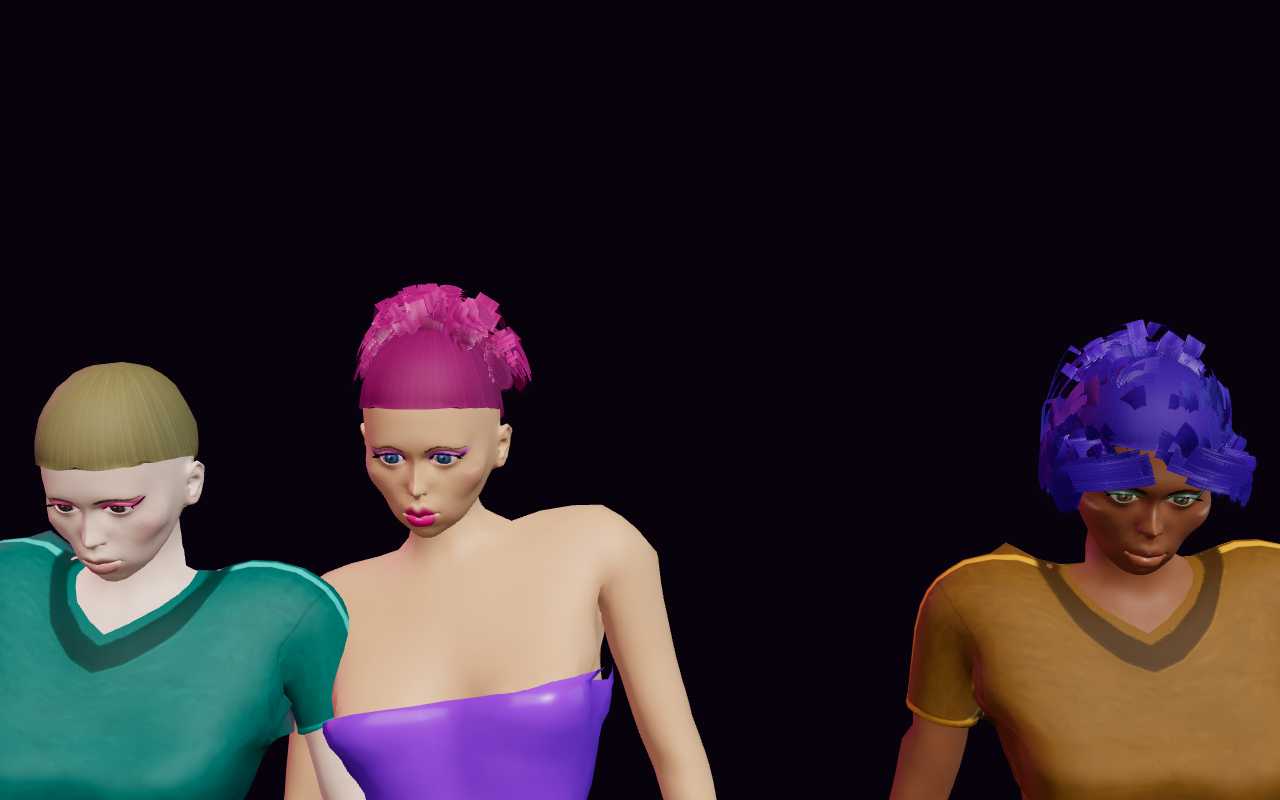
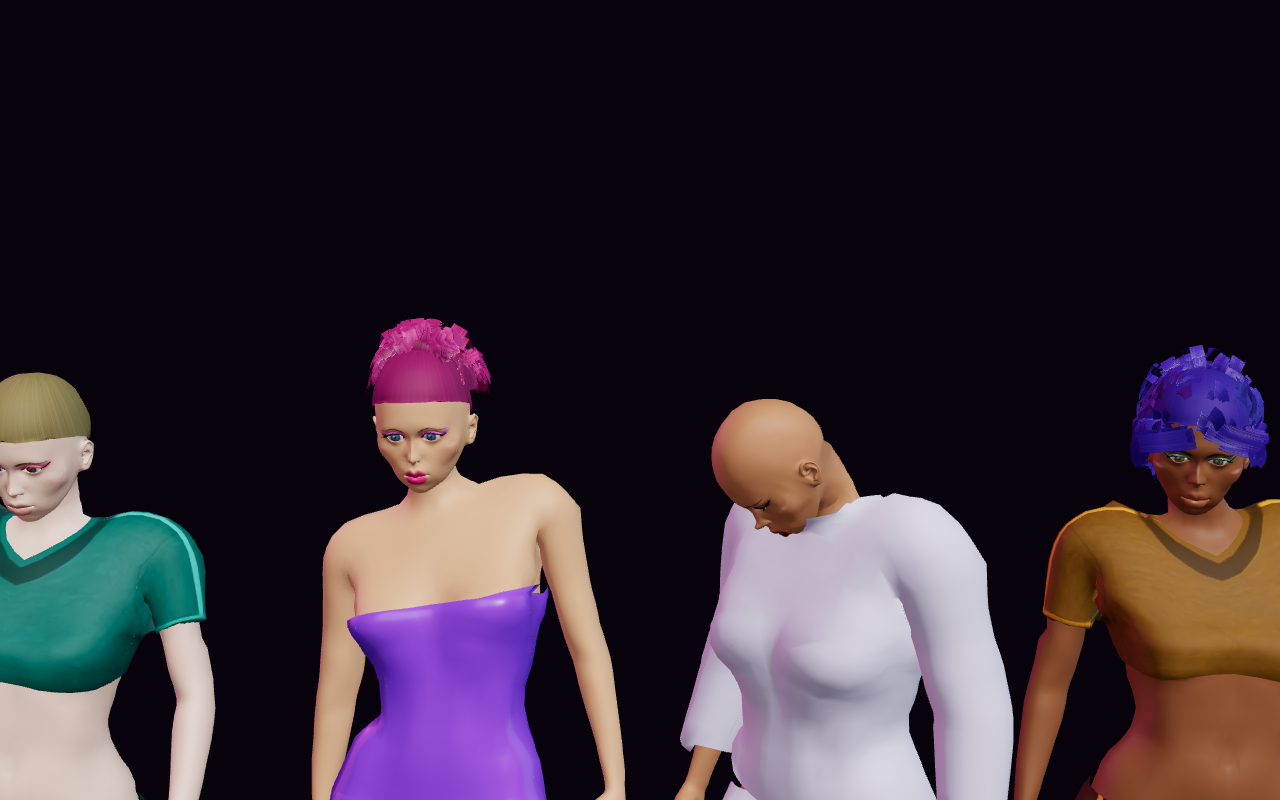
fix(doll): a bald doll no longer waits for a hair part; space the cropped lineup

diff --git a/src/client/avatar/human/HumanDoll.tsx b/src/client/avatar/human/HumanDoll.tsx
@@ -820,7 +820,7 @@ export function HumanDoll({
     // loaded: a doll stays hidden while they're still downloading
     if (root.current)
       root.current.visible =
-        worn.current.has("outfit") && worn.current.has("hair");
+        worn.current.has("outfit") && (!parts.hair || worn.current.has("hair"));
     // far dolls swap to the low-poly body; the gap is hysteresis
     if (root.current && body.far) {
       // last frame's world matrix is close enough for picking a LOD, and

diff --git a/src/client/avatar/lineup.tsx b/src/client/avatar/lineup.tsx
@@ -395,8 +395,8 @@ const SHOTS = {
     looks: (["buzz", "shaved-sides", "bald", "edges"] as const).map(
       (hairStyle, i) => ({ ...LINEUP[i % LINEUP.length], hairStyle }),
     ),
-    x: (i: number) => (i - 1.5) * 0.36,
-    cam: [0, 1.62, 1.8] as const,
+    x: (i: number) => (i - 1.5) * 0.6,
+    cam: [0, 1.62, 2.6] as const,
     target: [0, 1.58, 0] as const,
     fov: 28,
   },
